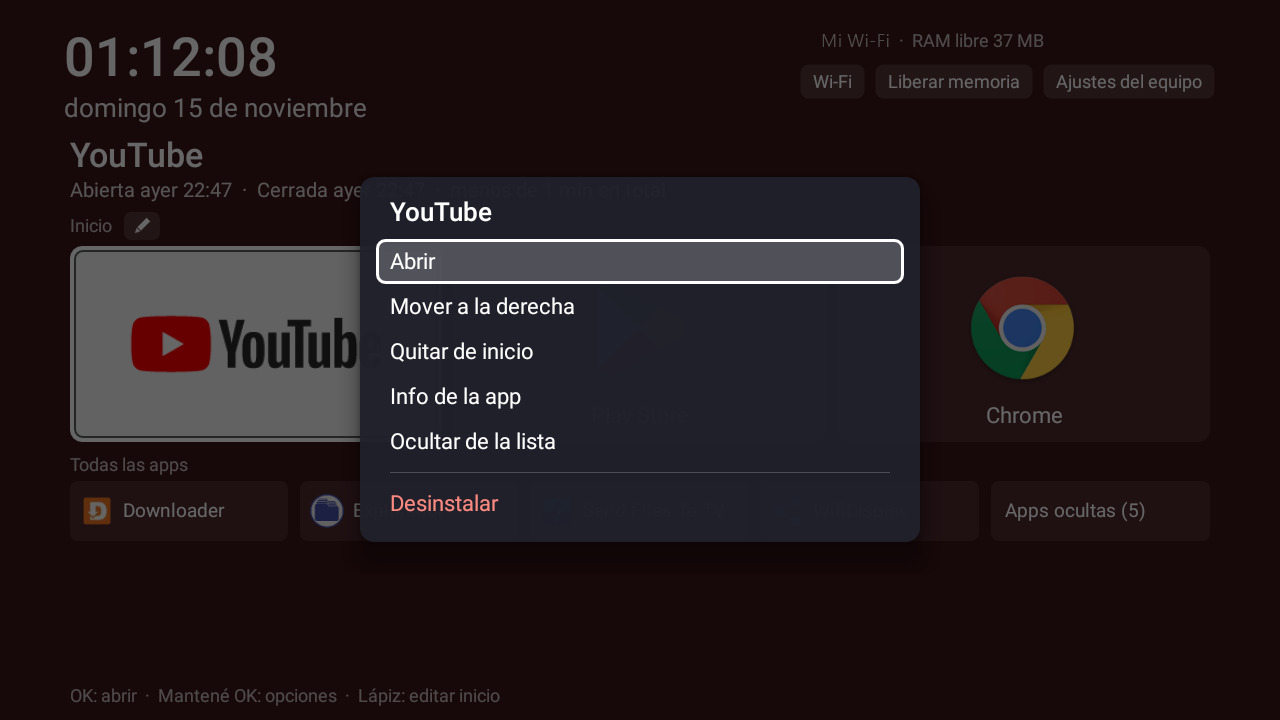
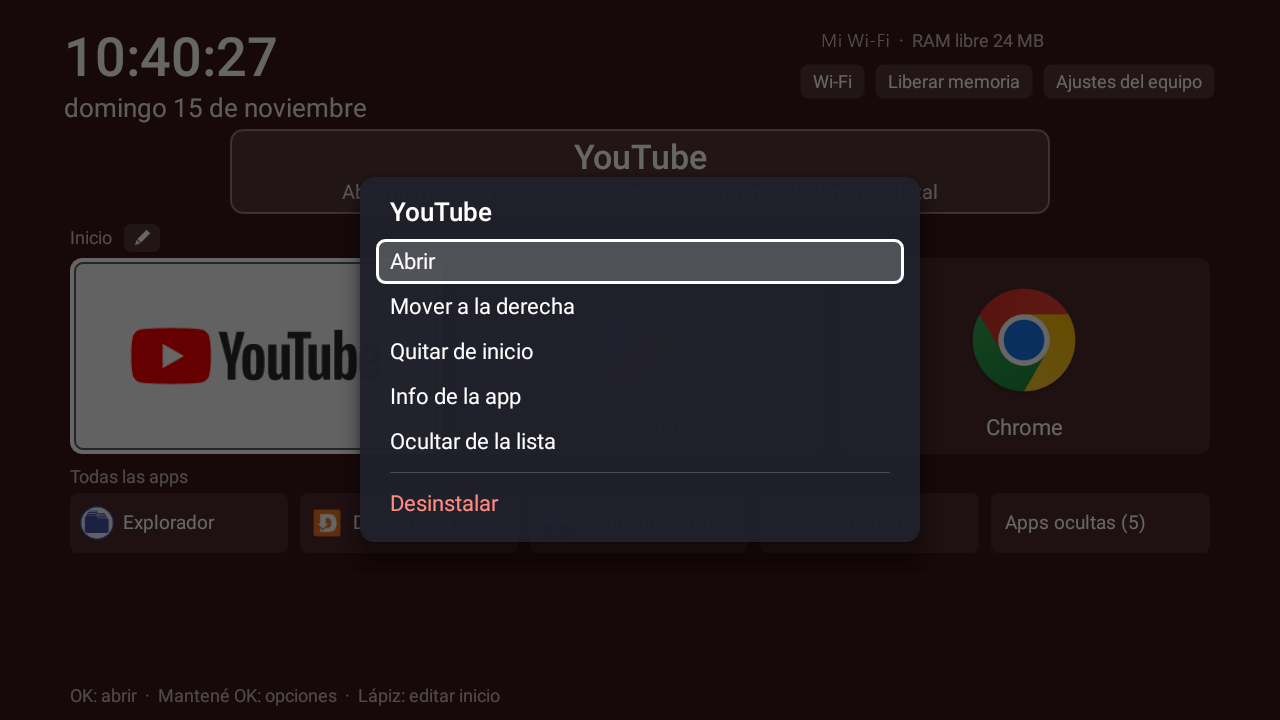
Fox Launcher 2.1.0: keep usage time across a power cut, centred app name
Android counts a session only when the app leaves the screen, so a box
switched off with an app still open lost the whole session. The
launcher now times the apps it opens, writes the open session down
once a minute, and settles it at the next start.

The name of the app in focus and its usage line move into their own
framed box, centred under the top bar. Screenshots retaken.

diff --git a/launcher/src/com/foxlauncher/home/Usage.java b/launcher/src/com/foxlauncher/home/Usage.java
@@ -29,6 +29,13 @@ final class Usage {
     /** Android's own running total at the last sync; only its growth is added to the ledger. */
     private static final String SYSTEM_TOTAL = "s_";
     private static final String LAST_SYNC = "usageSync";
+    /** The session of the app the launcher opened and that is still on screen. */
+    private static final String SESSION_PKG = "sessionPkg";
+    private static final String SESSION_START = "sessionStart";
+    private static final String SESSION_ALIVE = "sessionAlive";
+    private static final String SESSION_UPTIME = "sessionUptime";
+    /** Set once the launcher has counted a session itself. */
+    private static final String COUNTED = "k_";
 
     private static final long MINUTE = 60_000L;
     private static final long DAY = 86_400_000L;
@@ -58,28 +65,53 @@ final class Usage {
                 Process.myUid(), c.getPackageName()) == AppOpsManager.MODE_ALLOWED;
     }
 
-    /** The launcher started this app now. */
-    static void noteOpen(SharedPreferences p, String pkg, long now) {
+    /**
+     * The launcher started this app now. The session is written down at once and kept current by
+     * {@link #beat}, because Android's own log only counts a session when the app leaves the
+     * screen: a box switched off with the app still open would lose the whole evening.
+     */
+    static void beginSession(SharedPreferences p, String pkg, long now, long uptime) {
+        SharedPreferences.Editor e = p.edit();
+        e.putString(SESSION_PKG, pkg).putLong(SESSION_START, now).putLong(SESSION_ALIVE, now)
+                .putLong(SESSION_UPTIME, uptime);
         if (sane(now) && now > p.getLong(OPEN + pkg, 0)) {
-            p.edit().putLong(OPEN + pkg, now).apply();
+            e.putLong(OPEN + pkg, now);
+        }
+        e.apply();
+    }
+
+    /** The app opened from the launcher is still on screen. */
+    static void beat(SharedPreferences p, long now) {
+        if (sane(now) && p.contains(SESSION_PKG)) {
+            p.edit().putLong(SESSION_ALIVE, now).apply();
         }
     }
 
     /**
-     * The user came back to the launcher from an app it started. Only used while Android's usage
-     * log is not readable; with the log, {@link #sync} records the real figures instead.
+     * The home screen is showing again, so the open session, if any, is over. It ended now when
+     * the box has been running since the session began, and at the last {@link #beat} when the
+     * box was restarted in between.
      */
-    static void noteReturn(SharedPreferences p, String pkg, long start, long now) {
-        if (!sane(now)) {
+    static void endSession(SharedPreferences p, long now, long uptime) {
+        String pkg = p.getString(SESSION_PKG, null);
+        if (pkg == null) {
             return;
         }
+        long start = p.getLong(SESSION_START, 0);
+        long startUptime = p.getLong(SESSION_UPTIME, 0);
+        boolean sameBoot = sane(now) && uptime >= startUptime
+                && Math.abs((now - start) - (uptime - startUptime)) < 2 * MINUTE;
+        long end = sameBoot ? now : p.getLong(SESSION_ALIVE, 0);
         SharedPreferences.Editor e = p.edit();
-        if (now > p.getLong(CLOSE + pkg, 0)) {
-            e.putLong(CLOSE + pkg, now);
-        }
-        long spent = now - start;
+        e.remove(SESSION_PKG).remove(SESSION_START).remove(SESSION_ALIVE).remove(SESSION_UPTIME);
+        long spent = end - start;
         if (sane(start) && spent > 0 && spent < DAY) {
             e.putLong(TOTAL + pkg, p.getLong(TOTAL + pkg, 0) + spent);
+            if (end > p.getLong(CLOSE + pkg, 0)) {
+                e.putLong(CLOSE + pkg, end);
+            }
+            // Android's log may report this same session; sync must not add it a second time.
+            e.putBoolean(COUNTED + pkg, true);
         }
         e.apply();
     }
@@ -107,7 +139,10 @@ final class Usage {
                 continue;
             }
             long total = p.getLong(TOTAL + pkg, 0);
-            if (seen < 0) {
+            if (p.getBoolean(COUNTED + pkg, false)) {
+                // The launcher already counted the session behind this growth.
+                e.remove(COUNTED + pkg);
+            } else if (seen < 0) {
                 total = Math.max(total, system);
             } else if (system > seen) {
                 total += system - seen;

diff --git a/launcher/src/com/foxlauncher/home/MainActivity.java b/launcher/src/com/foxlauncher/home/MainActivity.java
@@ -25,6 +25,7 @@ import android.net.wifi.WifiInfo;
 import android.net.wifi.WifiManager;
 import android.os.Bundle;
 import android.os.Handler;
+import android.os.SystemClock;
 import android.provider.Settings;
 import android.text.TextUtils;
 import android.util.DisplayMetrics;
@@ -152,8 +153,17 @@ public final class MainActivity extends Activity {
     private App replacing;
 
     private TileView openingTile;
-    private String pendingPkg;
-    private long pendingStart;
+    /** How often the open app's session is written down, so a power cut loses at most this. */
+    private static final long HEARTBEAT_MS = 60_000L;
+
+    /** Runs while an app opened from here is on screen; the launcher's process stays alive. */
+    private final Runnable heartbeat = new Runnable() {
+        @Override
+        public void run() {
+            Usage.beat(prefs, System.currentTimeMillis());
+            handler.postDelayed(this, HEARTBEAT_MS);
+        }
+    };
     private boolean syncing;
 
     private final Runnable tick = new Runnable() {
@@ -224,12 +234,10 @@ public final class MainActivity extends Activity {
     protected void onResume() {
         super.onResume();
         clearOpening.run();
-        if (pendingPkg != null) {
-            if (!Usage.hasAccess(this)) {
-                Usage.noteReturn(prefs, pendingPkg, pendingStart, System.currentTimeMillis());
-            }
-            pendingPkg = null;
-        }
+        // Back on the home screen: whatever app was open is closed now. This also settles a
+        // session that was cut short when the box lost power with the app still open.
+        handler.removeCallbacks(heartbeat);
+        Usage.endSession(prefs, System.currentTimeMillis(), SystemClock.elapsedRealtime());
         syncUsage();
         refreshHero();
         ticks = 0;
@@ -384,13 +392,27 @@ public final class MainActivity extends Activity {
         root.addView(top);
 
         // Name and usage of whatever has focus.
+        LinearLayout hero = box(LinearLayout.VERTICAL);
+        hero.setPadding(px(32), px(8), px(32), px(10));
+        GradientDrawable heroFrame = new GradientDrawable();
+        heroFrame.setCornerRadius(12 * u);
+        heroFrame.setColor(0x24FFFFFF);
+        heroFrame.setStroke(px(2), 0x66FFFFFF);
+        hero.setBackground(heroFrame);
         heroTitle = text(34, TEXT);
         heroTitle.setTypeface(MEDIUM);
-        heroTitle.setPadding(px(6), px(12), 0, 0);
+        heroTitle.setGravity(Gravity.CENTER);
         heroSub = text(20, 0xCCFFFFFF);
-        heroSub.setPadding(px(6), px(3), 0, 0);
-        root.addView(heroTitle);
-        root.addView(heroSub);
+        heroSub.setGravity(Gravity.CENTER);
+        heroSub.setPadding(0, px(3), 0, 0);
+        hero.addView(heroTitle);
+        hero.addView(heroSub);
+        // A fixed width: the frame does not jump as the focus moves, and the usage line fits.
+        LinearLayout.LayoutParams heroParams = new LinearLayout.LayoutParams(
+                px(820), LinearLayout.LayoutParams.WRAP_CONTENT);
+        heroParams.gravity = Gravity.CENTER_HORIZONTAL;
+        heroParams.topMargin = px(6);
+        root.addView(hero, heroParams);
 
         LinearLayout header = box(LinearLayout.HORIZONTAL);
         header.setGravity(Gravity.CENTER_VERTICAL);
@@ -1060,9 +1082,9 @@ public final class MainActivity extends Activity {
         a.uses++;
         prefs.edit().putInt(PREF_USES + a.pkg, a.uses).apply();
         long now = System.currentTimeMillis();
-        Usage.noteOpen(prefs, a.pkg, now);
-        pendingPkg = a.pkg;
-        pendingStart = now;
+        Usage.beginSession(prefs, a.pkg, now, SystemClock.elapsedRealtime());
+        handler.removeCallbacks(heartbeat);
+        handler.postDelayed(heartbeat, HEARTBEAT_MS);
         return true;
     }
 

diff --git a/docs/HOW-IT-WORKS.md b/docs/HOW-IT-WORKS.md
@@ -32,8 +32,10 @@ sequenceDiagram
 |  18:05:32                                   My Wi-Fi  ·  Free RAM 39 MB  |
 |  Saturday, November 14                [Wi-Fi] [Free memory] [Settings]   |
 |                                                                          |
-|  YouTube                              <- name of the app that has focus  |
-|  Opened today 18:05  ·  Closed today 19:40  ·  12 h 30 min in total      |
+|        +--------------------------------------------------------+        |
+|        |                        YouTube                         |  app   |
+|        | Opened today 18:05 · Closed today 19:40 · 12 h in total|  in    |
+|        +--------------------------------------------------------+  focus |
 |                                                                          |
 |  Home  [pencil]                                                          |
 |  +------------------+ +------------------+ +------------------+          |
@@ -95,7 +97,7 @@ Android keeps a log of which app was on screen and when. On the test box that lo
 
 - It only ever moves forward. A number cannot go back.
 - Android's log feeds it when the launcher is allowed to read that log.
-- When it is not allowed, the launcher counts the apps it opens itself.
+- The launcher also times every app it opens itself, and writes the open session down once a minute. Android counts a session only when the app leaves the screen, so without this a box unplugged with a film still playing would lose the whole evening. With it, at most one minute is lost.
 - The screen always reads the launcher's record, never the two sources directly. So you never see one number today and an older one tomorrow.
 
 Everything stays on the box.

diff --git a/CHANGELOG.md b/CHANGELOG.md
@@ -1,10 +1,15 @@
 # Changelog
 
-## After 2.0.0
+## 2.1.0
 
-Prompt and documents only. The APK did not change.
+**Fox Launcher**
 
-- **New fix H in the prompt: make the picture fill the screen.** Some boxes shrink everything they draw and leave a black border on all four sides. The prompt now checks for it, sets the picture back to full size, and explains that the change shows after a restart or after the HDMI output is turned off and on.
+- **The time an app was used is no longer lost when the box is switched off.** Android only counts a session when the app leaves the screen, so a film watched until the box was unplugged counted as "less than 1 minute". The launcher now writes the open session down every minute and settles it at the next start. At most one minute is lost.
+- **The name of the app in focus sits in its own framed box, centred**, with the usage line under it. It no longer hangs under the clock.
+
+**The prompt**
+
+- **New fix H: make the picture fill the screen.** Some boxes shrink everything they draw and leave a black border on all four sides. The prompt now checks for it, sets the picture back to full size, and explains that the change shows after a restart or after the HDMI output is turned off and on.
 - The findings and the undo guide describe the same problem as it was on the test box.
 
 ## 2.0.0
